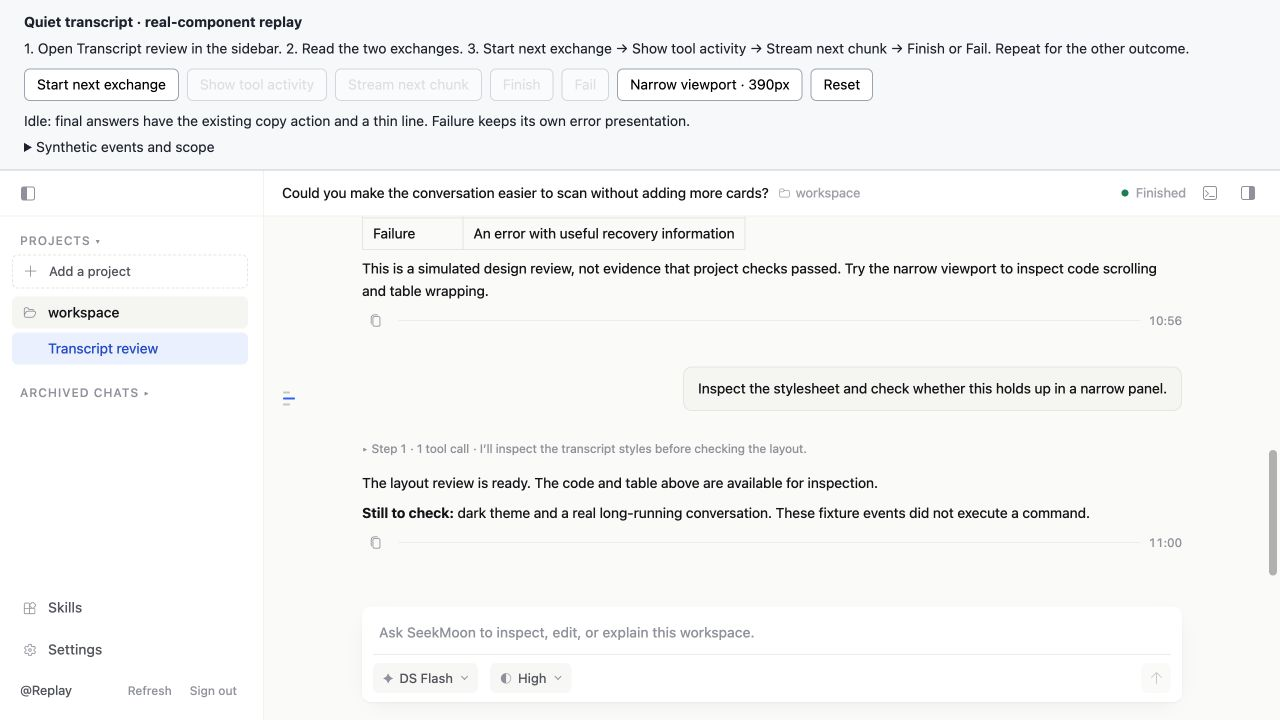
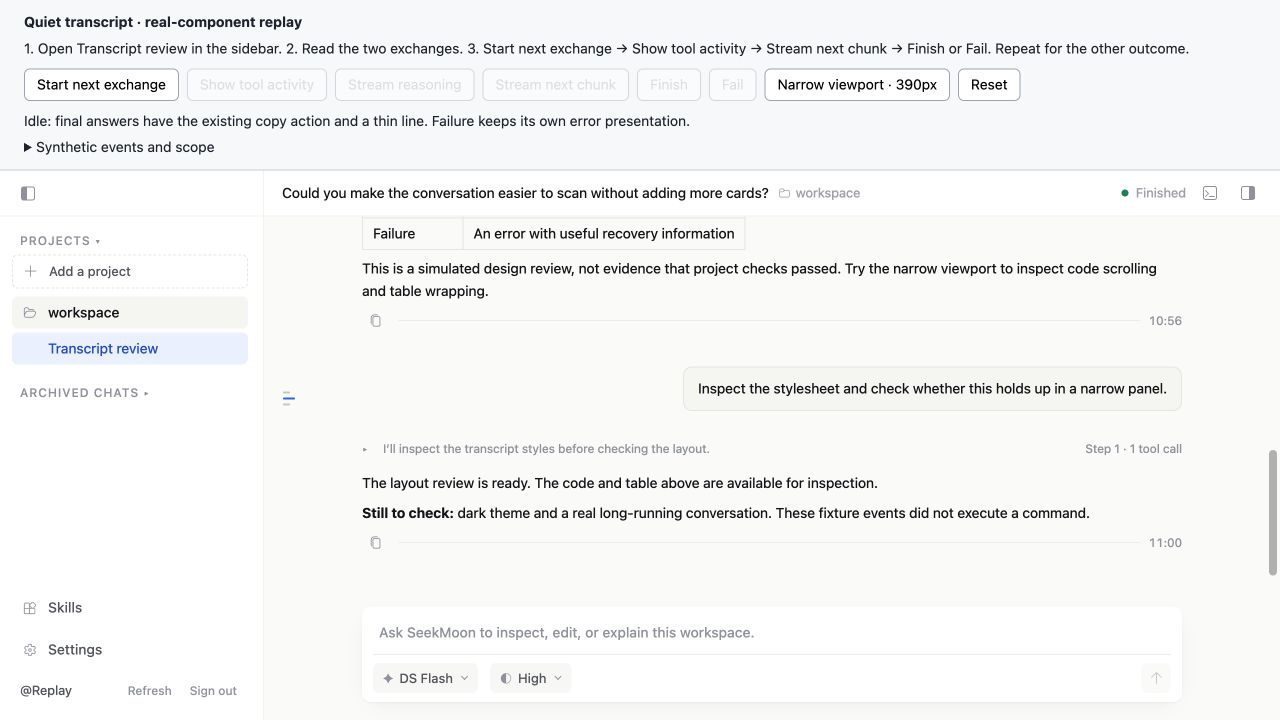
docs(replay): refresh activity disclosure evidence

Changed region(s): [[0.4688, 0.0917, 0.8125, 0.1528], [0.2812, 0.6111, 0.625, 0.6417], [0.8438, 0.6111, 0.9375, 0.6417]]

diff --git a/desktop/frontend/replay/README.md b/desktop/frontend/replay/README.md
@@ -13,7 +13,10 @@ requests, and results. Try narrow viewport and keyboard focus on a user prompt.
 
 The accepted design groups prompt and answer, uses the existing final Copy
 footer as the exchange boundary, and folds a whole work response under its
-step/count/verbatim preview. Step commit clocks and repeated ordinals are absent.
+verbatim text preview, with step/count at the trailing edge. The preview is
+bounded to 120 Unicode characters; the disclosure has a concise accessible name.
+Expanding shows the full text once in the same position, with tool evidence below.
+Step commit clocks and repeated ordinals are absent.
 Send timestamps are available on hover/focus (visible on devices without hover).
 Tool elapsed time is omitted because the shared projection has no reliable
 execution timing. Approval controls and terminal errors remain separate surfaces.

diff --git a/desktop/frontend/replay/screenshots/README.md b/desktop/frontend/replay/screenshots/README.md
@@ -5,7 +5,7 @@ using the replay's synthetic OpenSeek events. They are not mockups or evidence
 that real tools ran.
 
 - `before.jpg`: main at `66b50a737a404b4a8876bef371a9a41b7bb918f8`.
-- `after-expanded.jpg`: PR at `86bac60`, activity expanded.
+- `after-expanded.jpg`: PR transcript renderer and styles at `5ceae83`, activity expanded.
 - `after-collapsed.jpg`: the same PR state with its activity collapsed.
 
 The before build restored all three production files changed by the PR from
